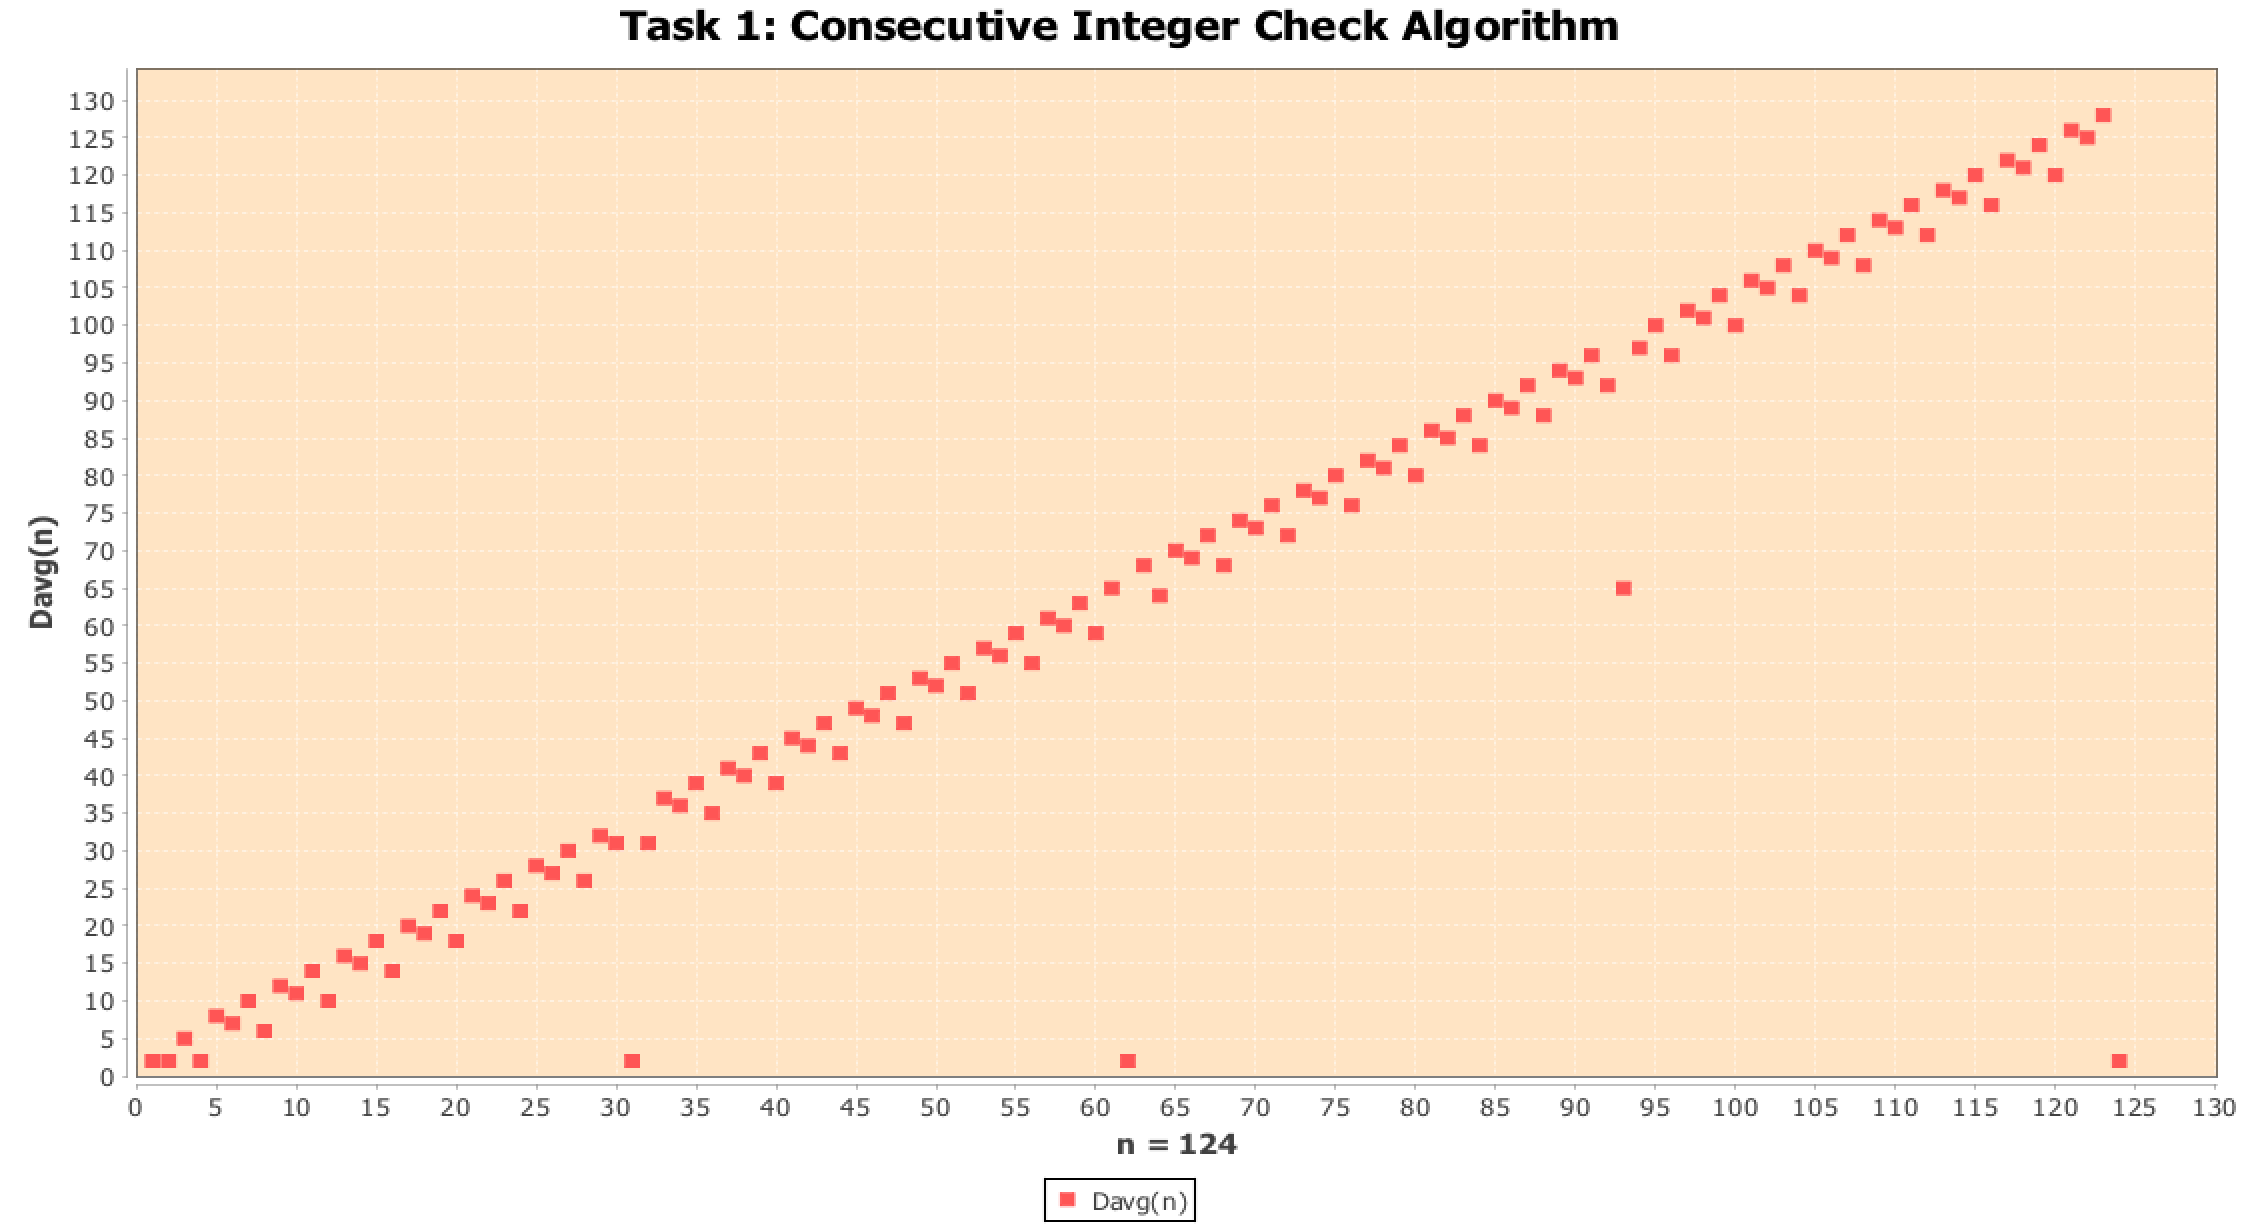
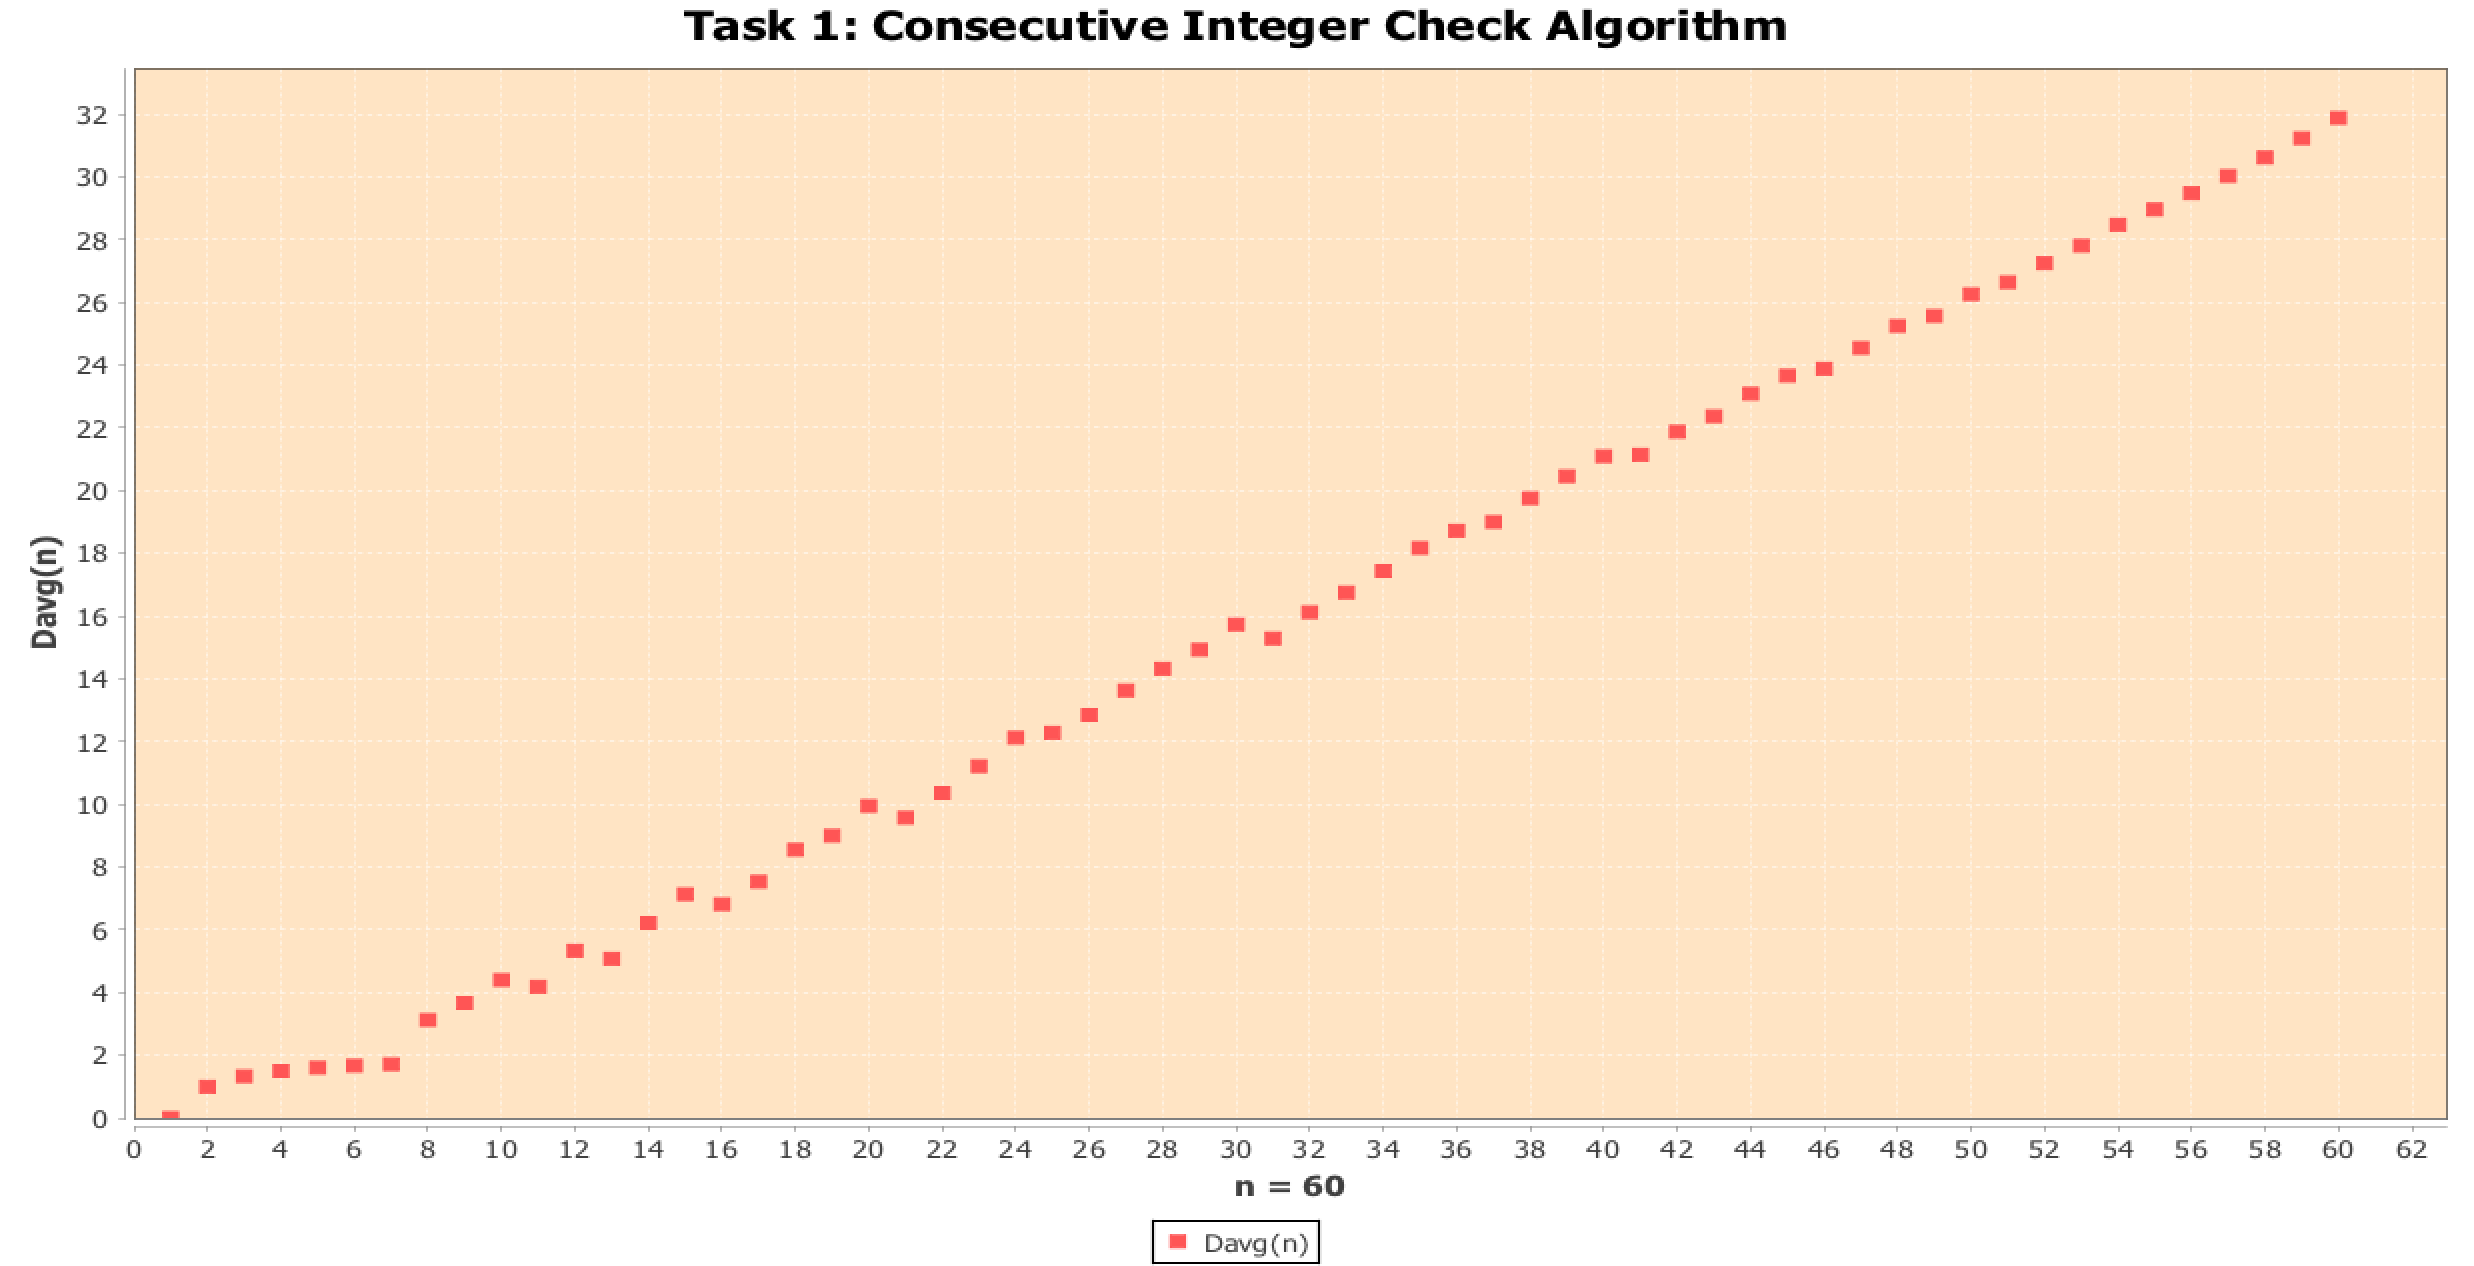
updating graphs

Changed region(s): [[0.0, 0.0, 0.9991, 1.0], [0.7181, 0.4657, 0.7493, 0.4967]]

diff --git a/src/com/modes/ScatterPlotMode.java b/src/com/modes/ScatterPlotMode.java
@@ -120,7 +120,7 @@ public class ScatterPlotMode extends AbstractMode {
 				BigInteger divisions = euclids.getDivisionCountGCD(BigInteger.valueOf(n), j);
 				total = total.add(new BigDecimal(divisions));
 			}
-			series.add(i, total.divide(new BigDecimal(n), MathContext.DECIMAL128));
+			series.add(i, total.divide(new BigDecimal(i), MathContext.DECIMAL128));
 		}
 		return series;
 	}
@@ -133,7 +133,7 @@ public class ScatterPlotMode extends AbstractMode {
 				BigInteger divisions = cic.getDivisionCountGCD(BigInteger.valueOf(n), j);
 				total = total.add(new BigDecimal(divisions));
 			}
-			series.add(i, total.divide(new BigDecimal(n), MathContext.DECIMAL128));
+			series.add(i, total.divide(new BigDecimal(i), MathContext.DECIMAL128));
 		}
 		return series;
 	}
